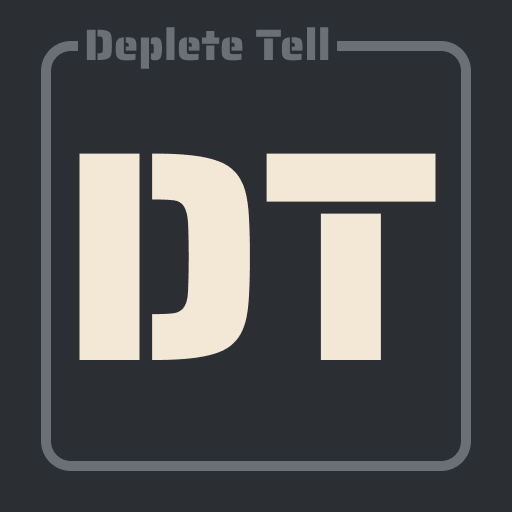
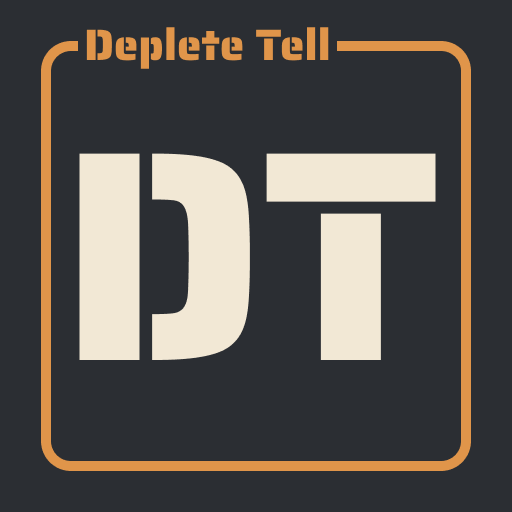
chore: release v0.1.1+26.1

Changed region(s): [[0.0625, 0.0312, 0.9375, 0.9375]]

diff --git a/changelogs/v0.1.1+26.1.md b/changelogs/v0.1.1+26.1.md
@@ -1,0 +1,7 @@
+## Fixes
+- Fix issues link
+- Fix when player can launch the game without required dependecies
+
+## Update
+- Added new icon
+- Update in game mod description